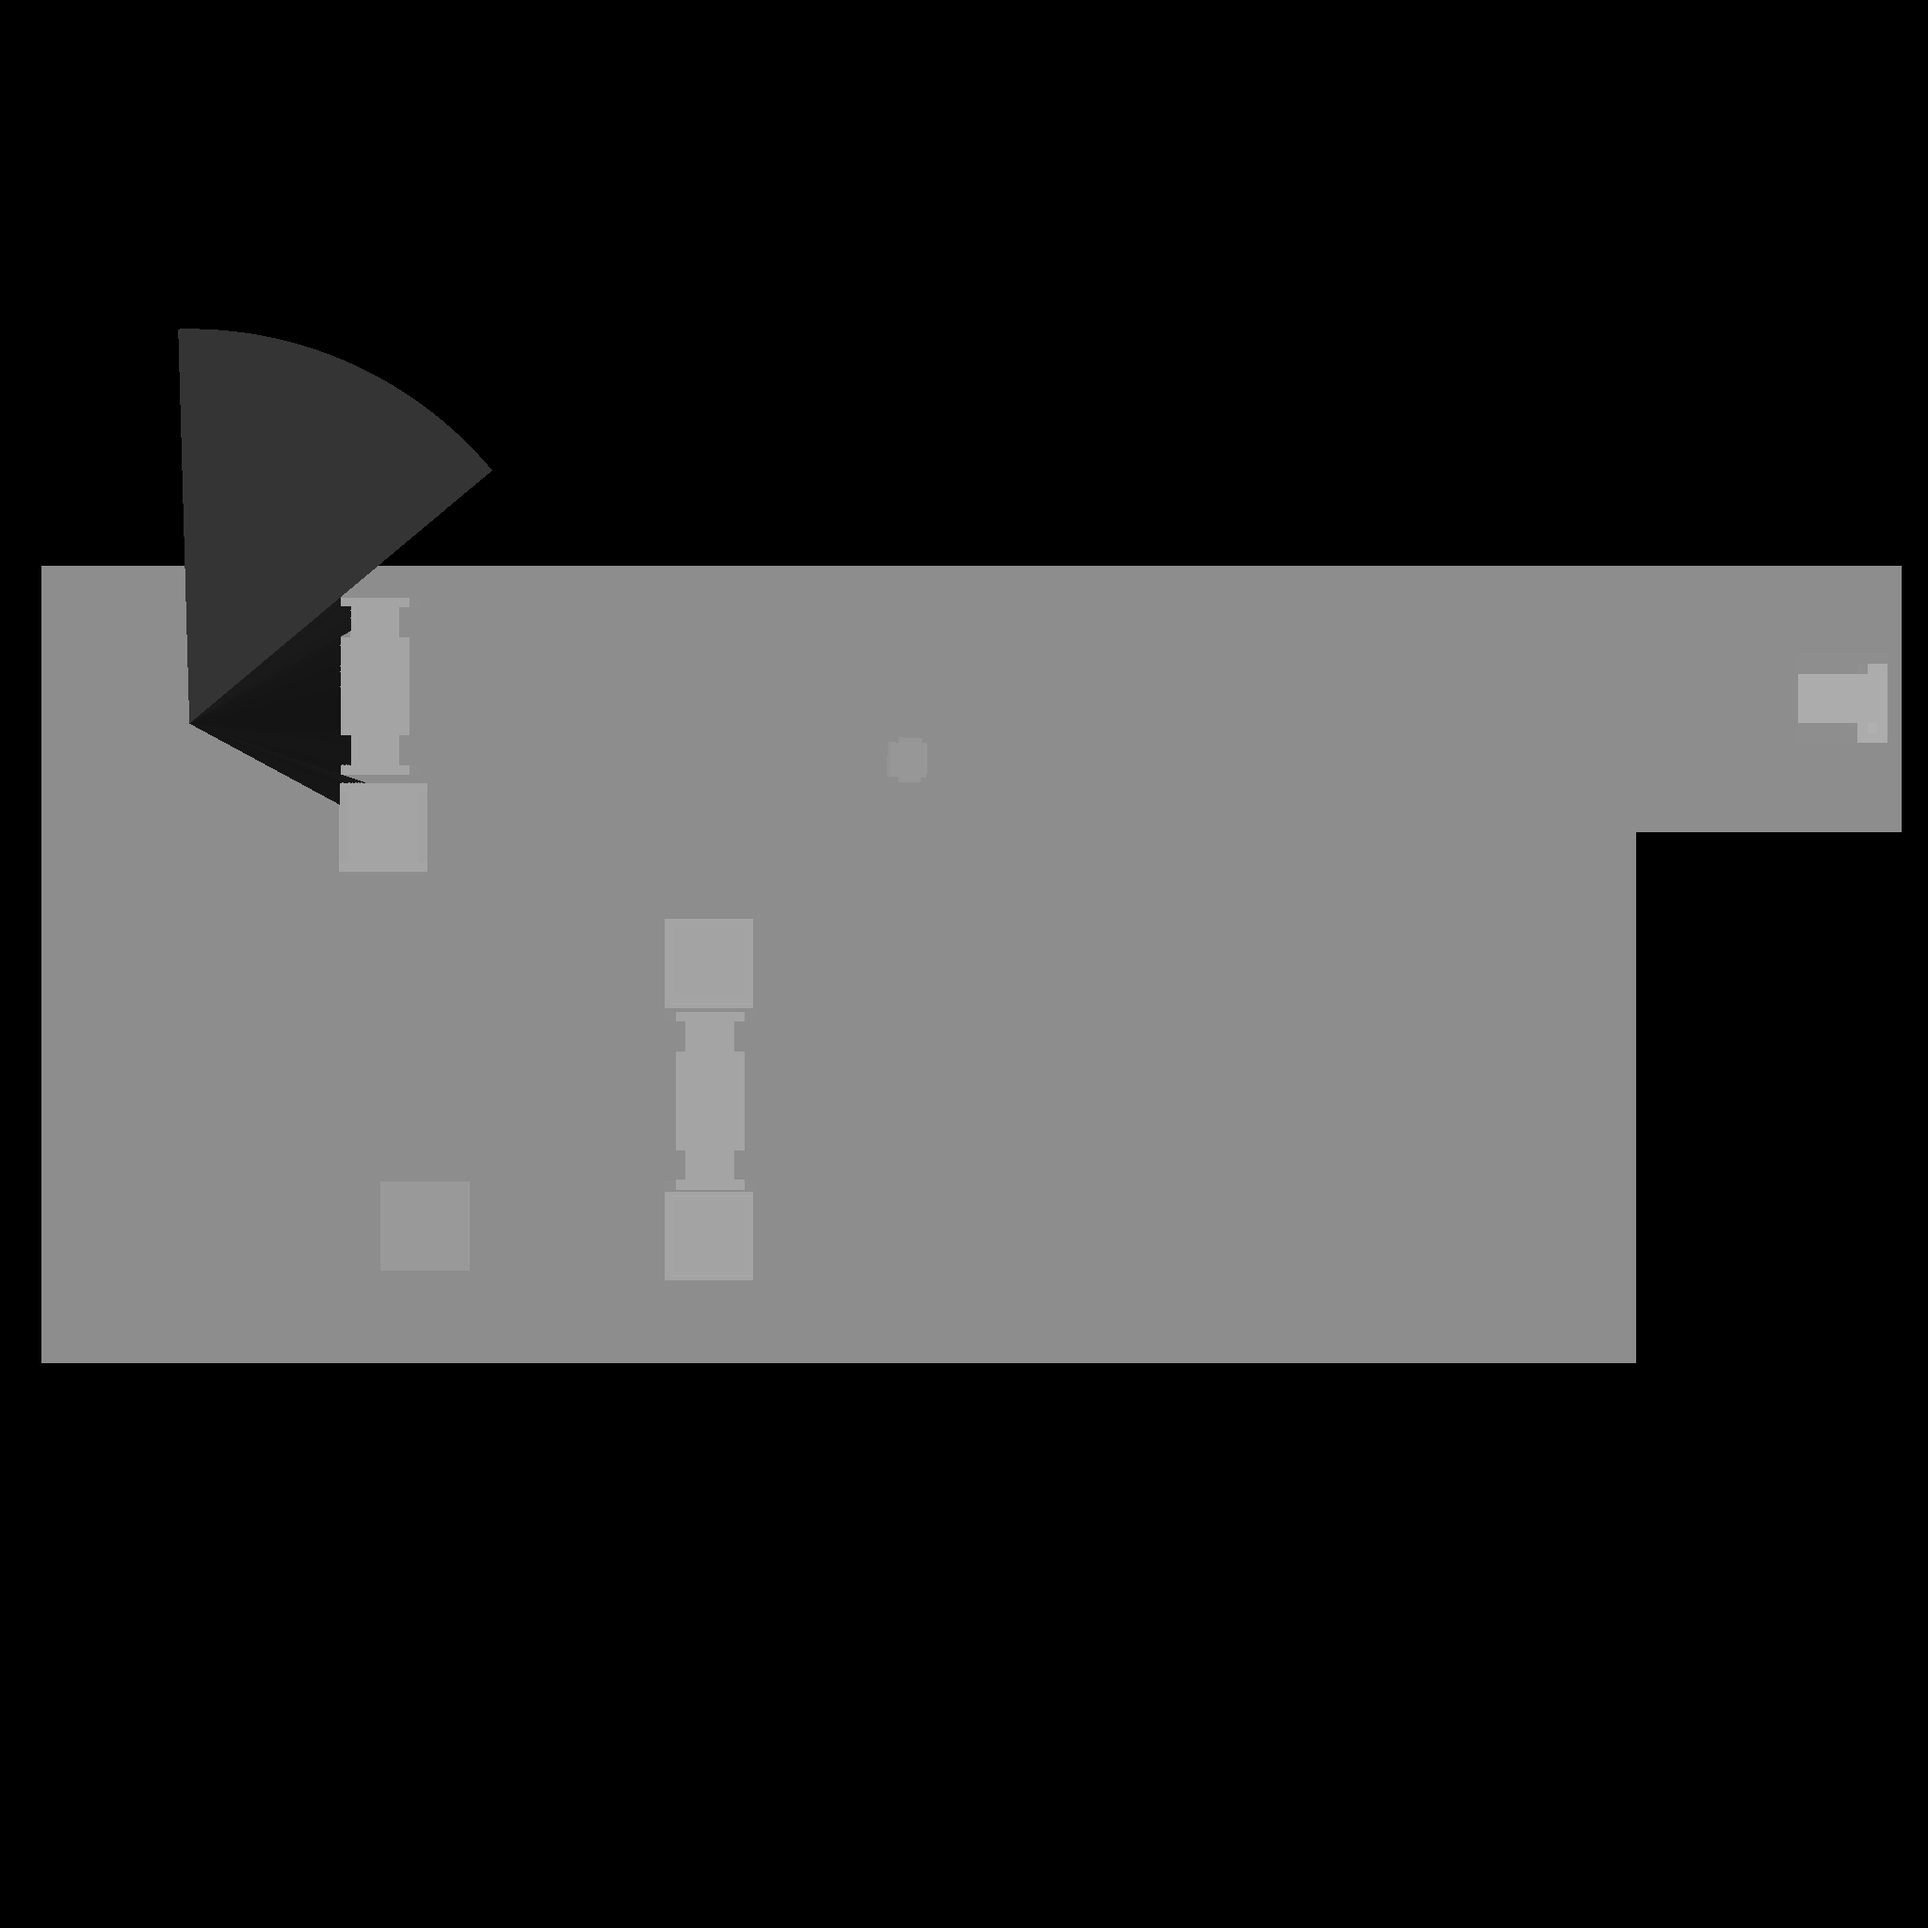
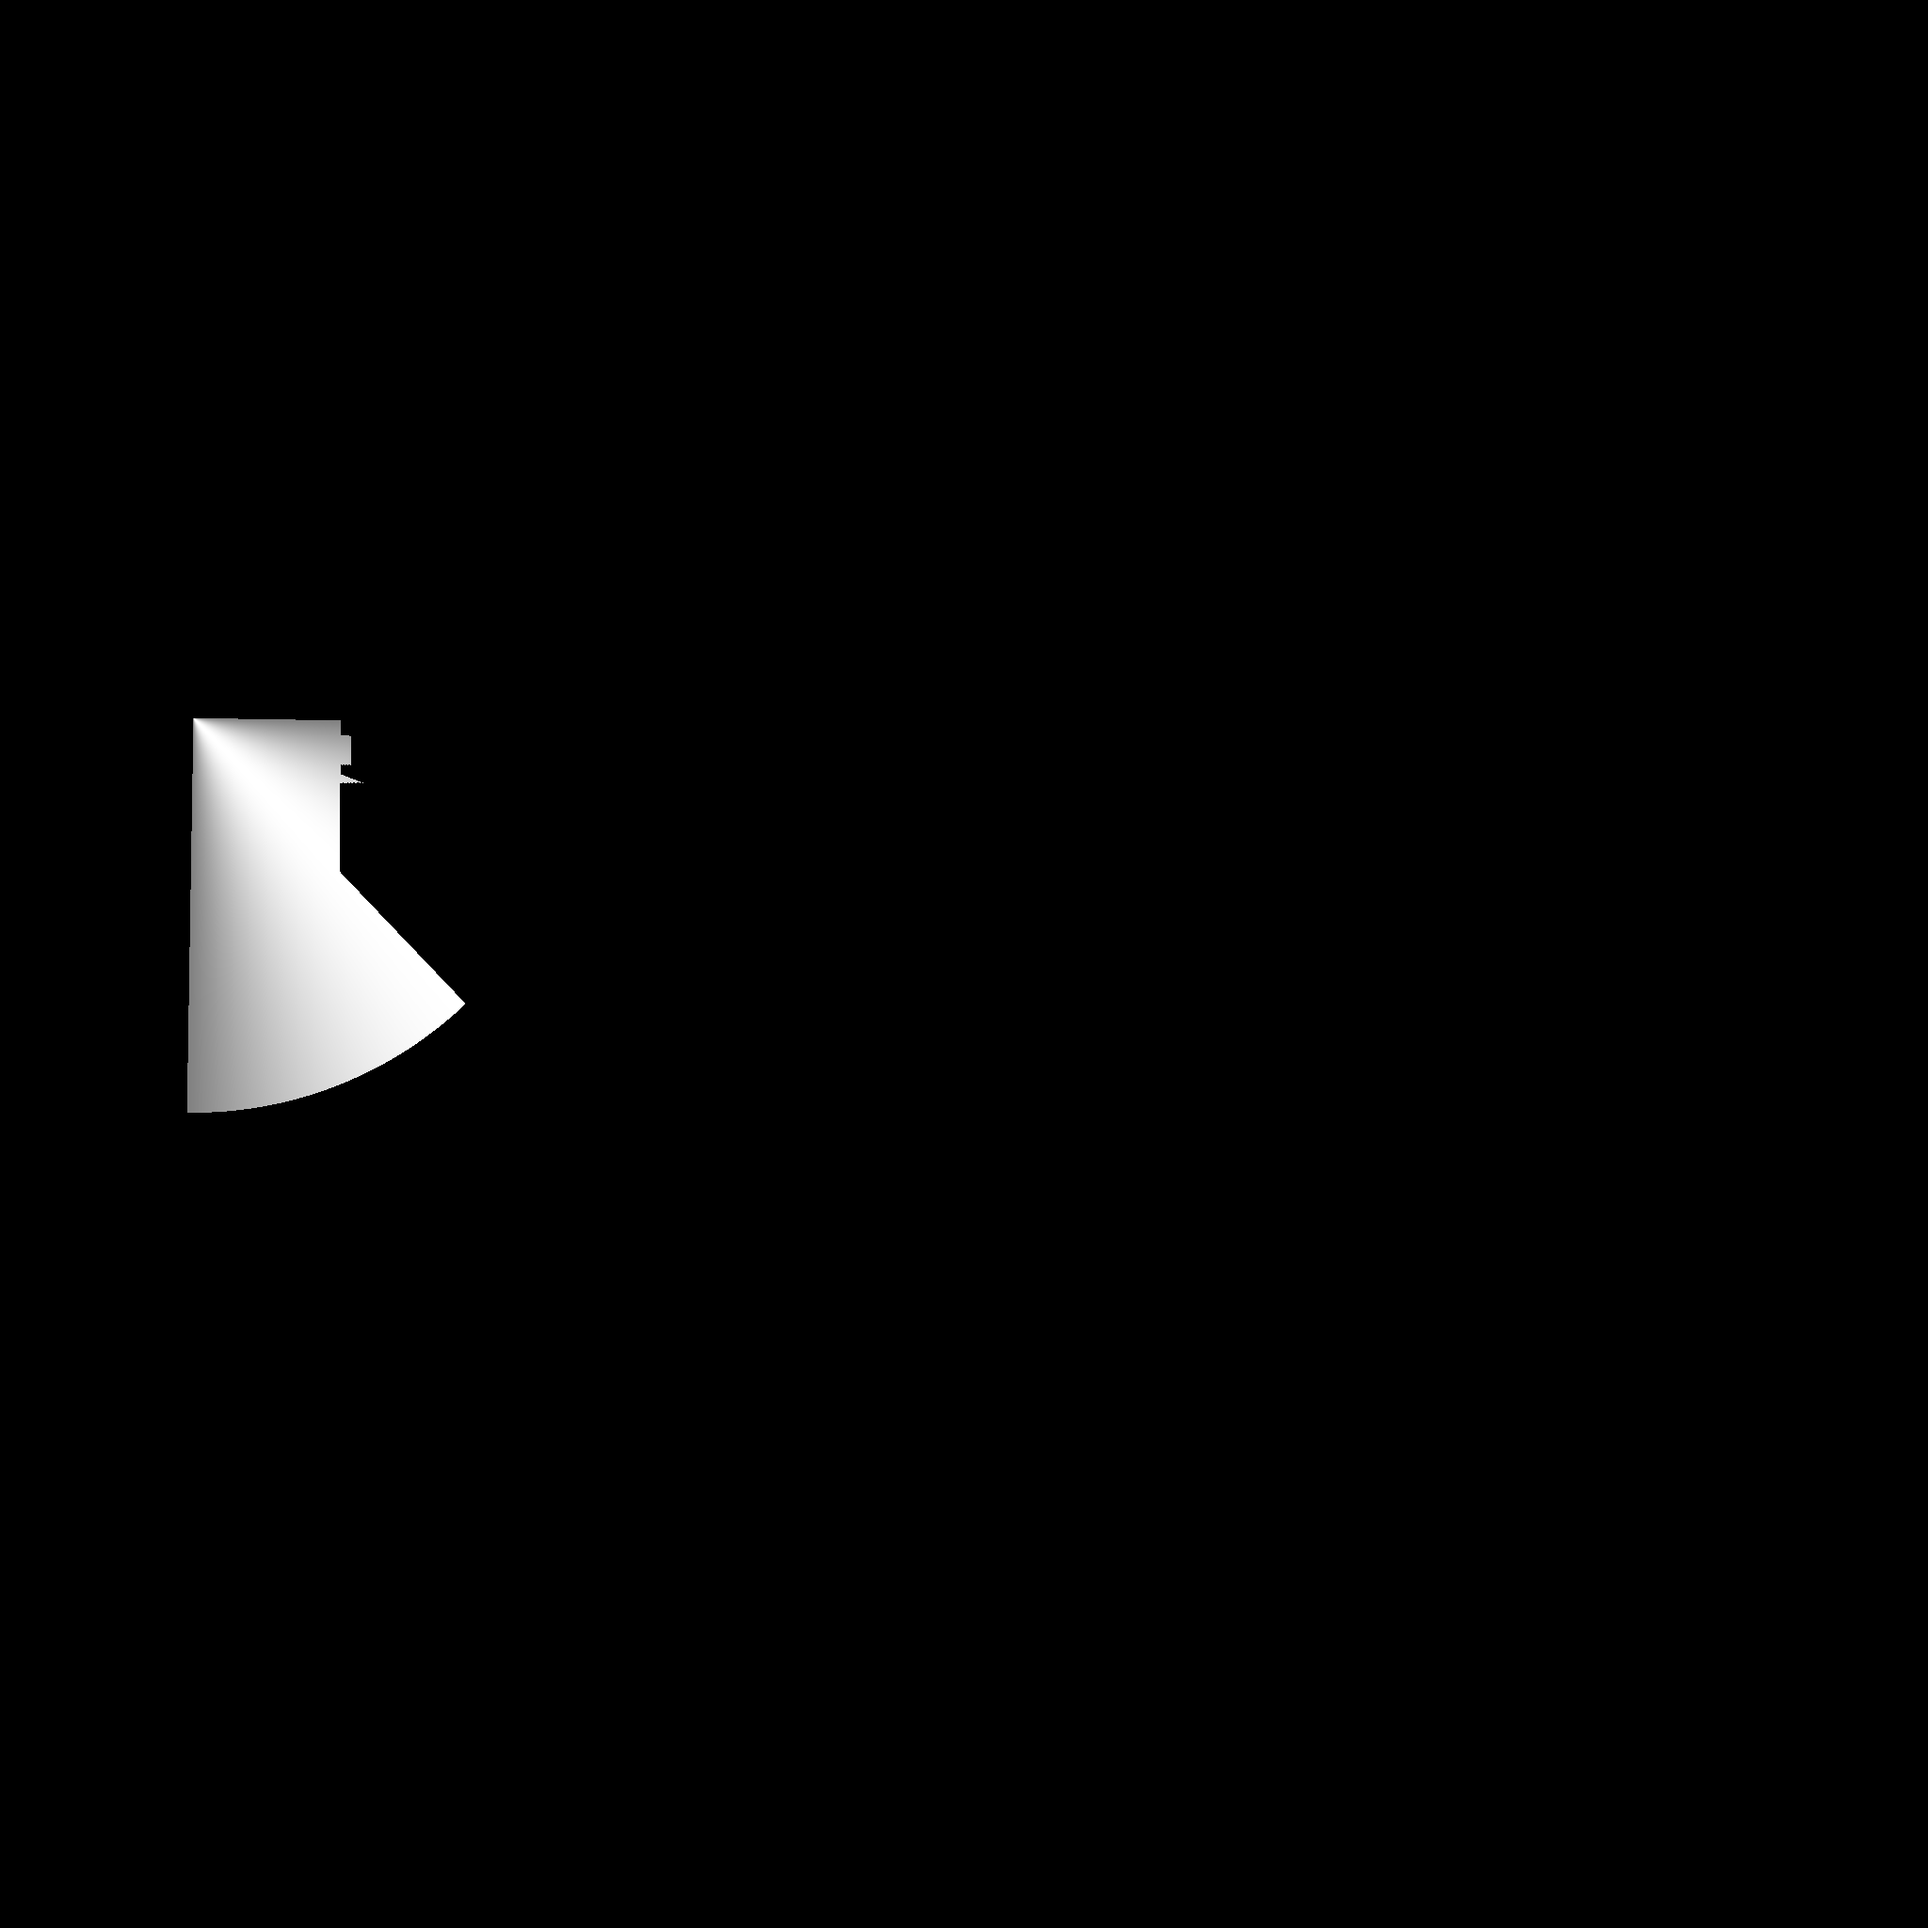
Add proper alpha rendering into the visibility texture

diff --git a/Assets/malatindez/VisibilityManager.cs b/Assets/malatindez/VisibilityManager.cs
@@ -69,6 +69,7 @@ public class VisibilityManager : MonoBehaviour
         _visibilityMaskShader.SetInt("RayTextureSize", _rayTextureSize);
         _visibilityMaskShader.SetInt("VisibilityMaskWidth", _visibilityMask.width);
         _visibilityMaskShader.SetInt("VisibilityMaskHeight", _visibilityMask.height);
+        _visibilityMaskShader.SetFloat("MinAlpha", _minAlpha);
         _visibilityMaskShader.Dispatch(0, _visibilityMask.width / 8, _visibilityMask.height / 8, 1);
         // TODO: MOVE TO COMPUTE SHADER
         if (updateFogOfWar)
@@ -110,6 +111,7 @@ public class VisibilityManager : MonoBehaviour
     private RenderTexture _visibilityMask;
     [SerializeField] private ComputeShader _visibilityMaskShader;
     [SerializeField] private ComputeShader _R8ToR8G8B8A8TransferShader;
+    [SerializeField] private float _minAlpha = 0.5f;
 
     #endregion Fields
 
